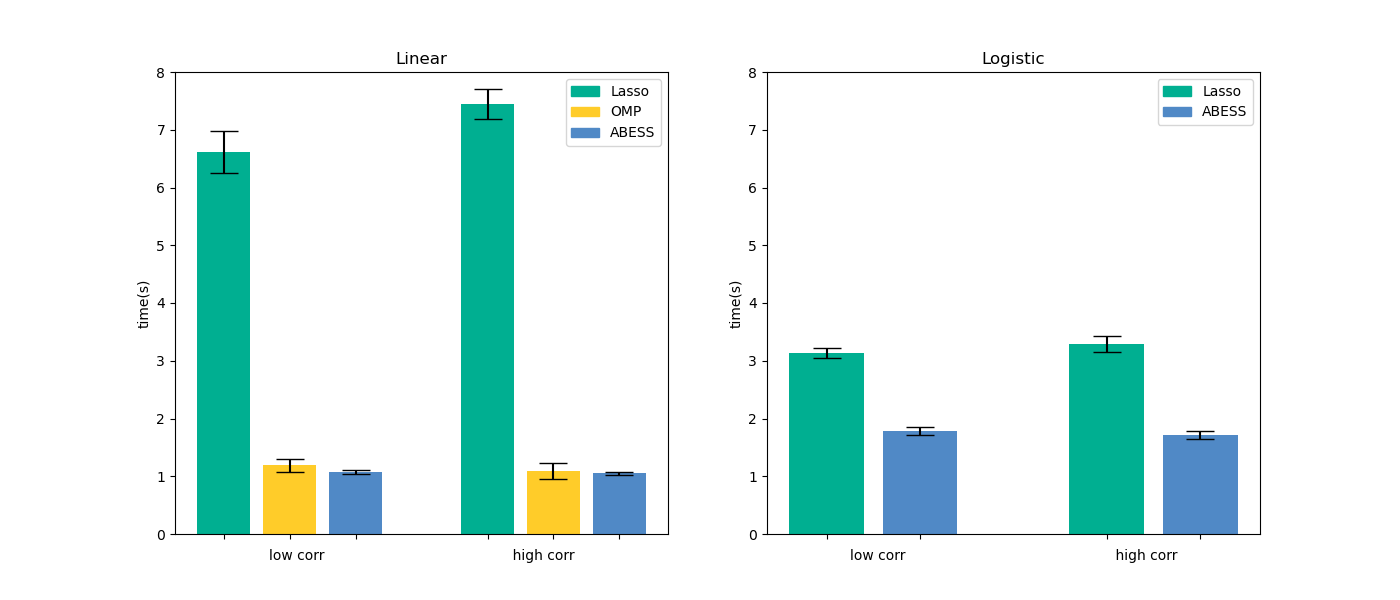
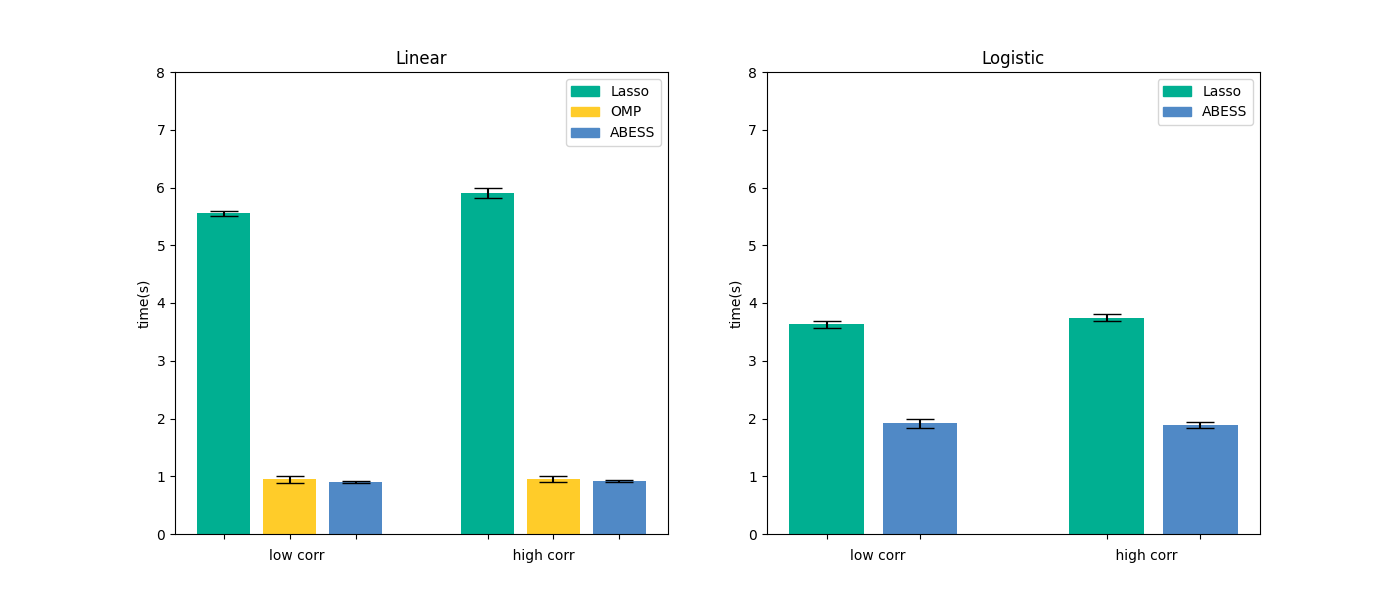
Update docs figure

diff --git a/docs/Tutorial/1-glm/plot_a1_power_of_abess.py b/docs/Tutorial/1-glm/plot_a1_power_of_abess.py
@@ -20,12 +20,12 @@ Power of **abess** Library: Empirical Comparison
 # presents a poor prediction error, the ``statsmodels`` runs slow and the
 # ``L0bnb`` cannot adaptively choose sparsity level. So their results are not
 # showed here.)
-# 
+#
 
 ######################################
 # Simulation Setting
 # ^^^^^^^^^^
-# 
+#
 # Both packages are compared in three aspects including the prediction
 # performance, the variable selection performance, and the computation
 # efficiency.
@@ -46,10 +46,10 @@ Power of **abess** Library: Empirical Comparison
 # number of predictors is :math:`p=8000` and the size of data is
 # :math:`n=500`. The true coefficient contains :math:`k=10` nonzero
 # entries uniformly distributed in :math:`[b,B]`:
-# 
-# -  For linear regression (``family = "gaussian"``), we set :math:`b = 5\sqrt{2\ln p / n}` and :math:`B = 100b`. 
-# -  For logistic regression (``family = "binomial"``), we set :math:`b = 10\sqrt{2\ln p / n}` and :math:`B = 5b`. 
-# 
+#
+# -  For linear regression (``family = "gaussian"``), we set :math:`b = 5\sqrt{2\ln p / n}` and :math:`B = 100b`.
+# -  For logistic regression (``family = "binomial"``), we set :math:`b = 10\sqrt{2\ln p / n}` and :math:`B = 5b`.
+#
 # In each regression, we test for both low
 # (:math:`\rho=0.1`) and high correlation (:math:`\rho=0.7`) scenarios.
 # What’s more, a random noise generated from a standard Gaussian
@@ -57,8 +57,8 @@ Power of **abess** Library: Empirical Comparison
 # regression.
 #
 # All the performances are averaged over 20 replications.
-# All experiments are evaluated on a Ubuntu platform with Intel(R)
-# Core(TM) i9-9940X CPU @ 3.30GHz and 48 RAM.
+# All experiments are evaluated on a Arch Linux platform with Intel(R)
+# Core(TM) i5-6500 CPU @ 3.20GHz and 16 RAM.
 #
 # .. code:: bash
 #
@@ -94,6 +94,6 @@ Power of **abess** Library: Empirical Comparison
 #
 # .. |image0| image:: ../../Tutorial/figure/perform.png
 # .. |image1| image:: ../../Tutorial/figure/timings.png
-# 
+#
 # sphinx_gallery_thumbnail_path = 'Tutorial/figure/timings.png'
-# 
+#
